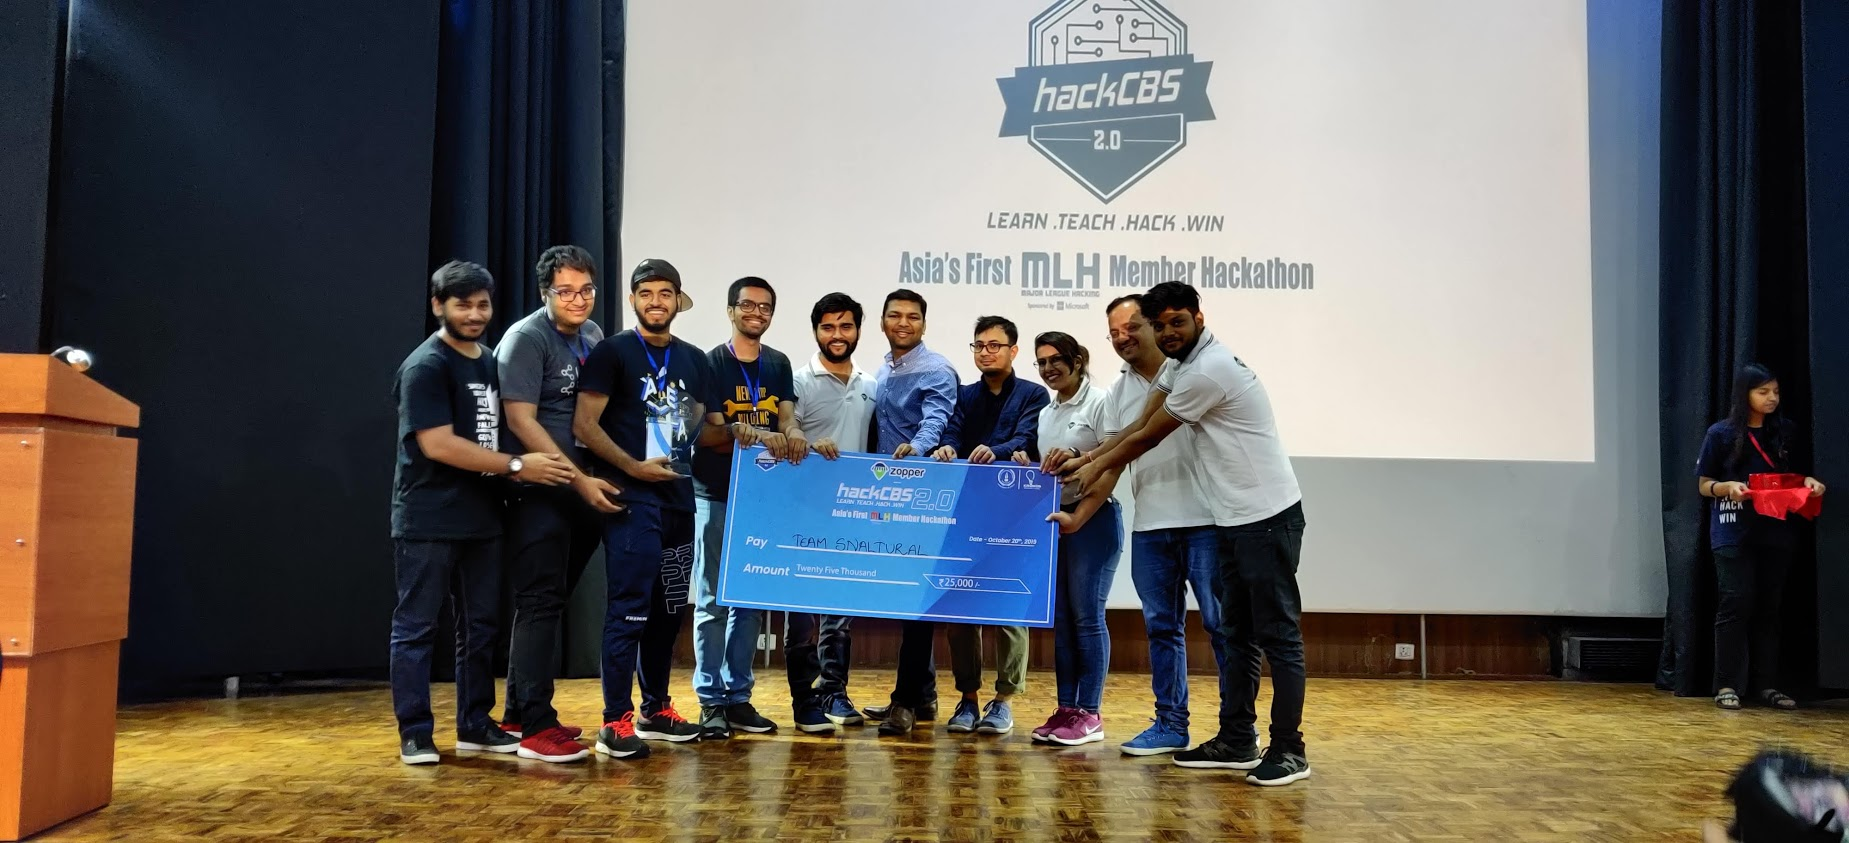
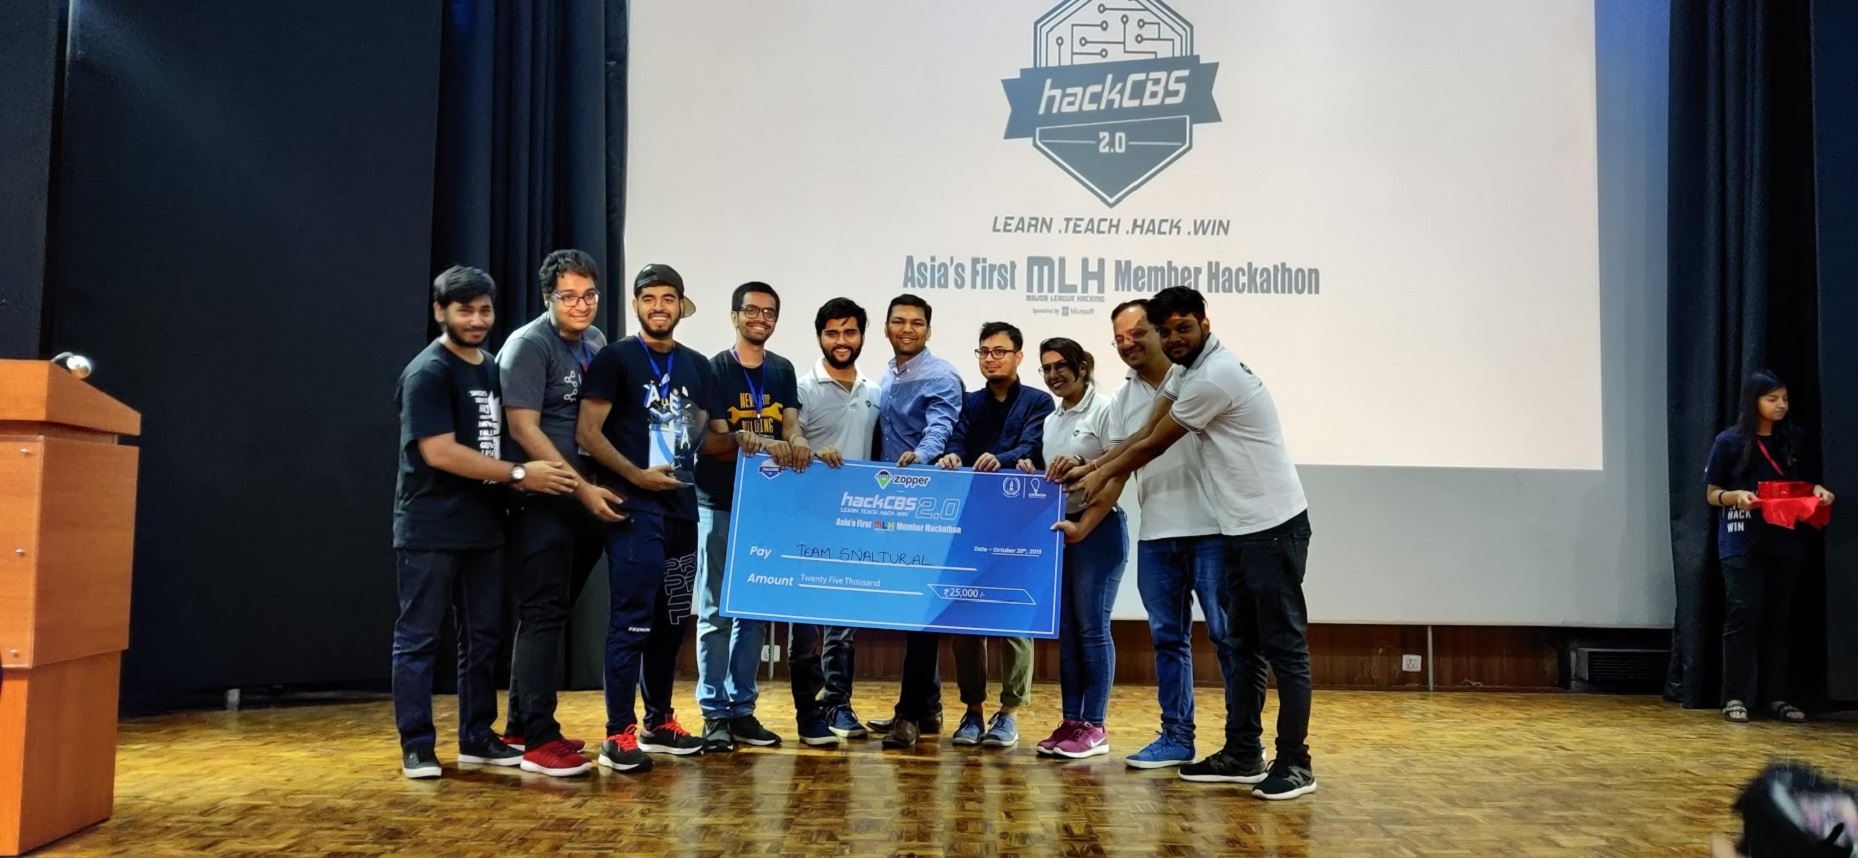
Resolved some bugs in hackCBS section

diff --git a/index.html b/index.html
@@ -811,62 +811,62 @@
                     </div>
                     <div class="carousel-inner">
                         <div class="carousel-item active">
-                            <img class="caro-pic" src="assets/images/HackCbs/1.jpg" class="d-block w-100" alt="..." width="929" height="429">    
+                            <img class="caro-pic" src="assets/images/HackCbs/1.jpg" class="d-block w-100" alt="...">    
                         </div> 
 
                         <div class="carousel-item 2ndcarousel-item">
-                          <img class="caro-pic" src="assets/images/HackCbs/3.jpg" class="d-block w-100" alt="..." width="929" height="429">
+                          <img class="caro-pic" src="assets/images/HackCbs/3.jpg" class="d-block w-100" alt="...">
                         </div>
 
                         <div class="carousel-item 2ndcarousel-item">
-                          <img class="caro-pic" src="assets/images/HackCbs/13.jpg" class="d-block w-100" alt="..." width="929" height="429">
+                          <img class="caro-pic" src="assets/images/HackCbs/13.jpg" class="d-block w-100" alt="...">
                         </div>
 
                         <div class="carousel-item 2ndcarousel-item">
-                          <img class="caro-pic" src="assets/images/HackCbs/14 --.jpg" class="d-block w-100" alt="..." width="929" height="429">
+                          <img class="caro-pic" src="assets/images/HackCbs/14 --.jpg" class="d-block w-100" alt="...">
                         </div>
 
                         <div class="carousel-item 2ndcarousel-item">
-                          <img class="caro-pic" src="assets/images/HackCbs/7.jpg" class="d-block w-100" alt="..." width="929" height="429">
+                          <img class="caro-pic" src="assets/images/HackCbs/7.jpg" class="d-block w-100" alt="...">
                         </div>
 
                         <div class="carousel-item 2ndcarousel-item">
-                          <img class="caro-pic" src="assets/images/HackCbs/8.jpg" class="d-block w-100" alt="..." width="929" height="429">
+                          <img class="caro-pic" src="assets/images/HackCbs/8.jpg" class="d-block w-100" alt="...">
                         </div>
 
                         <div class="carousel-item 2ndcarousel-item">
-                          <img class="caro-pic" src="assets/images/HackCbs/9.jpg" class="d-block w-100" alt="..." width="929" height="429">
+                          <img class="caro-pic" src="assets/images/HackCbs/9.jpg" class="d-block w-100" alt="...">
                         </div>
 
                         <div class="carousel-item 2ndcarousel-item">
-                          <img class="caro-pic" src="assets/images/HackCbs/10.jpg" class="d-block w-100" alt="..." width="929" height="429">
+                          <img class="caro-pic" src="assets/images/HackCbs/10.jpg" class="d-block w-100" alt="...">
                         </div>
 
                         <div class="carousel-item 2ndcarousel-item">
-                          <img class="caro-pic" src="assets/images/HackCbs/11.jpg" class="d-block w-100" alt="..." width="929" height="429">
+                          <img class="caro-pic" src="assets/images/HackCbs/11.jpg" class="d-block w-100" alt="...">
                         </div>
 
                         <div class="carousel-item 2ndcarousel-item">
-                          <img class="caro-pic" src="assets/images/HackCbs/2.jpg" class="d-block w-100" alt="..." width="929" height="429">
+                          <img class="caro-pic" src="assets/images/HackCbs/2.jpg" class="d-block w-100" alt="...">
                         </div>
 
                         <div class="carousel-item 2ndcarousel-item">
-                          <img class="caro-pic" src="assets/images/HackCbs/4.jpg" class="d-block w-100" alt="..." width="929" height="429">
+                          <img class="caro-pic" src="assets/images/HackCbs/4.jpg" class="d-block w-100" alt="...">
                         </div>
 
                         <div class="carousel-item 2ndcarousel-item">
-                          <img class="caro-pic" src="assets/images/HackCbs/5.jpg" class="d-block w-100" alt="..." width="929" height="429">
+                          <img class="caro-pic" src="assets/images/HackCbs/5.jpg" class="d-block w-100" alt="...">
                         </div>
 
                         <div class="carousel-item 2ndcarousel-item">
-                          <img class="caro-pic" src="assets/images/HackCbs/6.jpg" class="d-block w-100" alt="..." width="929" height="429">
+                          <img class="caro-pic" src="assets/images/HackCbs/6.jpg" class="d-block w-100" alt="...">
                         </div>
 
                         <div class="carousel-item 2ndcarousel-item">
-                          <img class="caro-pic" src="assets/images/HackCbs/12.JPG" class="d-block w-100" alt="..." width="929" height="429">
+                          <img class="caro-pic" src="assets/images/HackCbs/12.JPG" class="d-block w-100" alt="...">
                         </div>
                         <div class="carousel-item 2ndcarousel-item">
-                          <img class="caro-pic" src="assets/images/HackCbs/14.jpg" class="d-block w-100" alt="..." width="929" height="429">
+                          <img class="caro-pic" src="assets/images/HackCbs/14.jpg" class="d-block w-100" alt="...">
                         </div>
 
 
